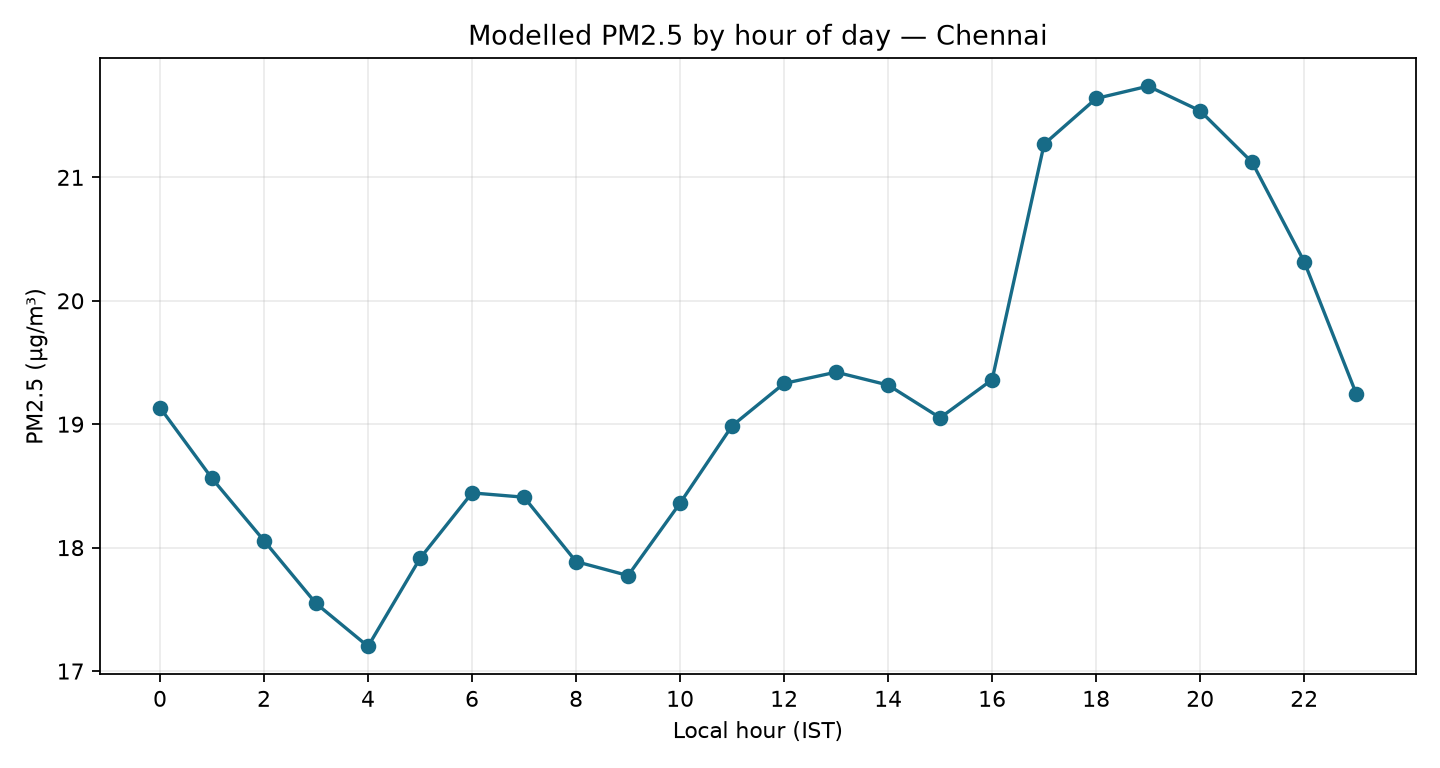
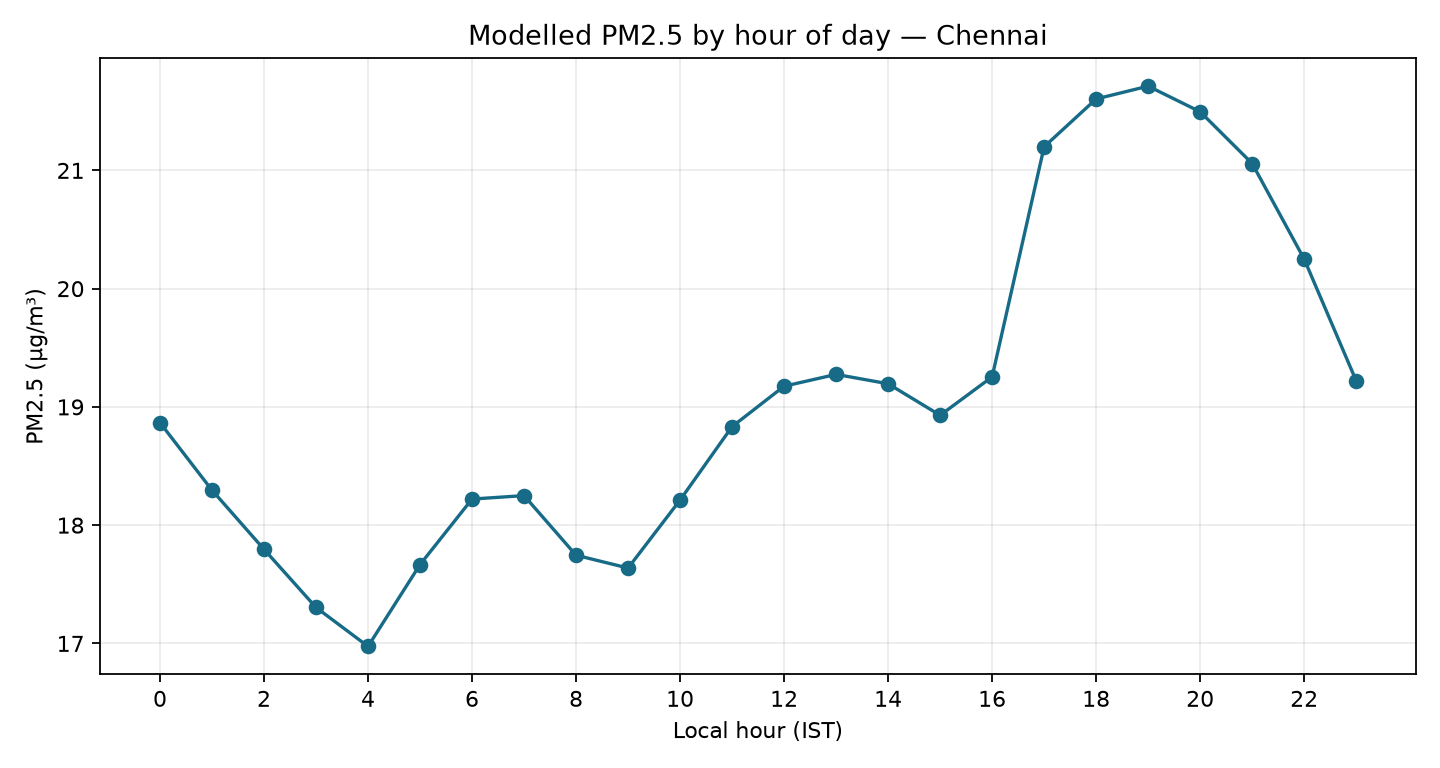
Refresh Chennai air-quality analysis

diff --git a/chennai-air-quality-hourly/reports/findings.md b/chennai-air-quality-hourly/reports/findings.md
@@ -2,15 +2,15 @@
 
 ## Sample and provenance
 
-- Coverage: **2026-10-11 00:00** to **2026-11-02 23:00 IST**, 552 hourly timestamps.
+- Coverage: **2026-10-11 00:00** to **2026-11-03 23:00 IST**, 576 hourly timestamps.
 - Requested coordinates: **13.0827° N, 80.2707° E**; the returned model grid coordinates are preserved in `data/chennai_hourly.csv`.
 - PM2.5 is a gridded CAMS model estimate served through Open-Meteo, not a station reading. Weather is Open-Meteo historical reanalysis.
 
 ## Findings
 
-1. **Hour-of-day pattern:** highest hourly mean was at **19:00 IST** (21.74 µg/m³). Commute windows (07:00–09:59 and 17:00–19:59) averaged **19.79 µg/m³** (median 12.55) versus **19.05 µg/m³** at other hours.
-2. **Rain comparison:** rain hours averaged **9.81 µg/m³** across 265 hours and dry hours averaged **27.94 µg/m³** across 287 hours. Hours immediately before a rainy next hour averaged **9.75 µg/m³** versus **28.00 µg/m³** otherwise. These are descriptive associations, not evidence that rain caused a change.
-3. **Sunday:** mean of hourly PM2.5 averages was **17.26 µg/m³** on Sundays and **19.65 µg/m³** Monday–Saturday. Interpret cautiously with this short sample.
+1. **Hour-of-day pattern:** highest hourly mean was at **19:00 IST** (21.71 µg/m³). Commute windows (07:00–09:59 and 17:00–19:59) averaged **19.69 µg/m³** (median 13.95) versus **18.89 µg/m³** at other hours.
+2. **Rain comparison:** rain hours averaged **9.88 µg/m³** across 268 hours and dry hours averaged **27.11 µg/m³** across 308 hours. Hours immediately before a rainy next hour averaged **9.81 µg/m³** versus **27.16 µg/m³** otherwise. These are descriptive associations, not evidence that rain caused a change.
+3. **Sunday:** mean of hourly PM2.5 averages was **17.26 µg/m³** on Sundays and **19.46 µg/m³** Monday–Saturday. Interpret cautiously with this short sample.
 
 ## Caveats
 
